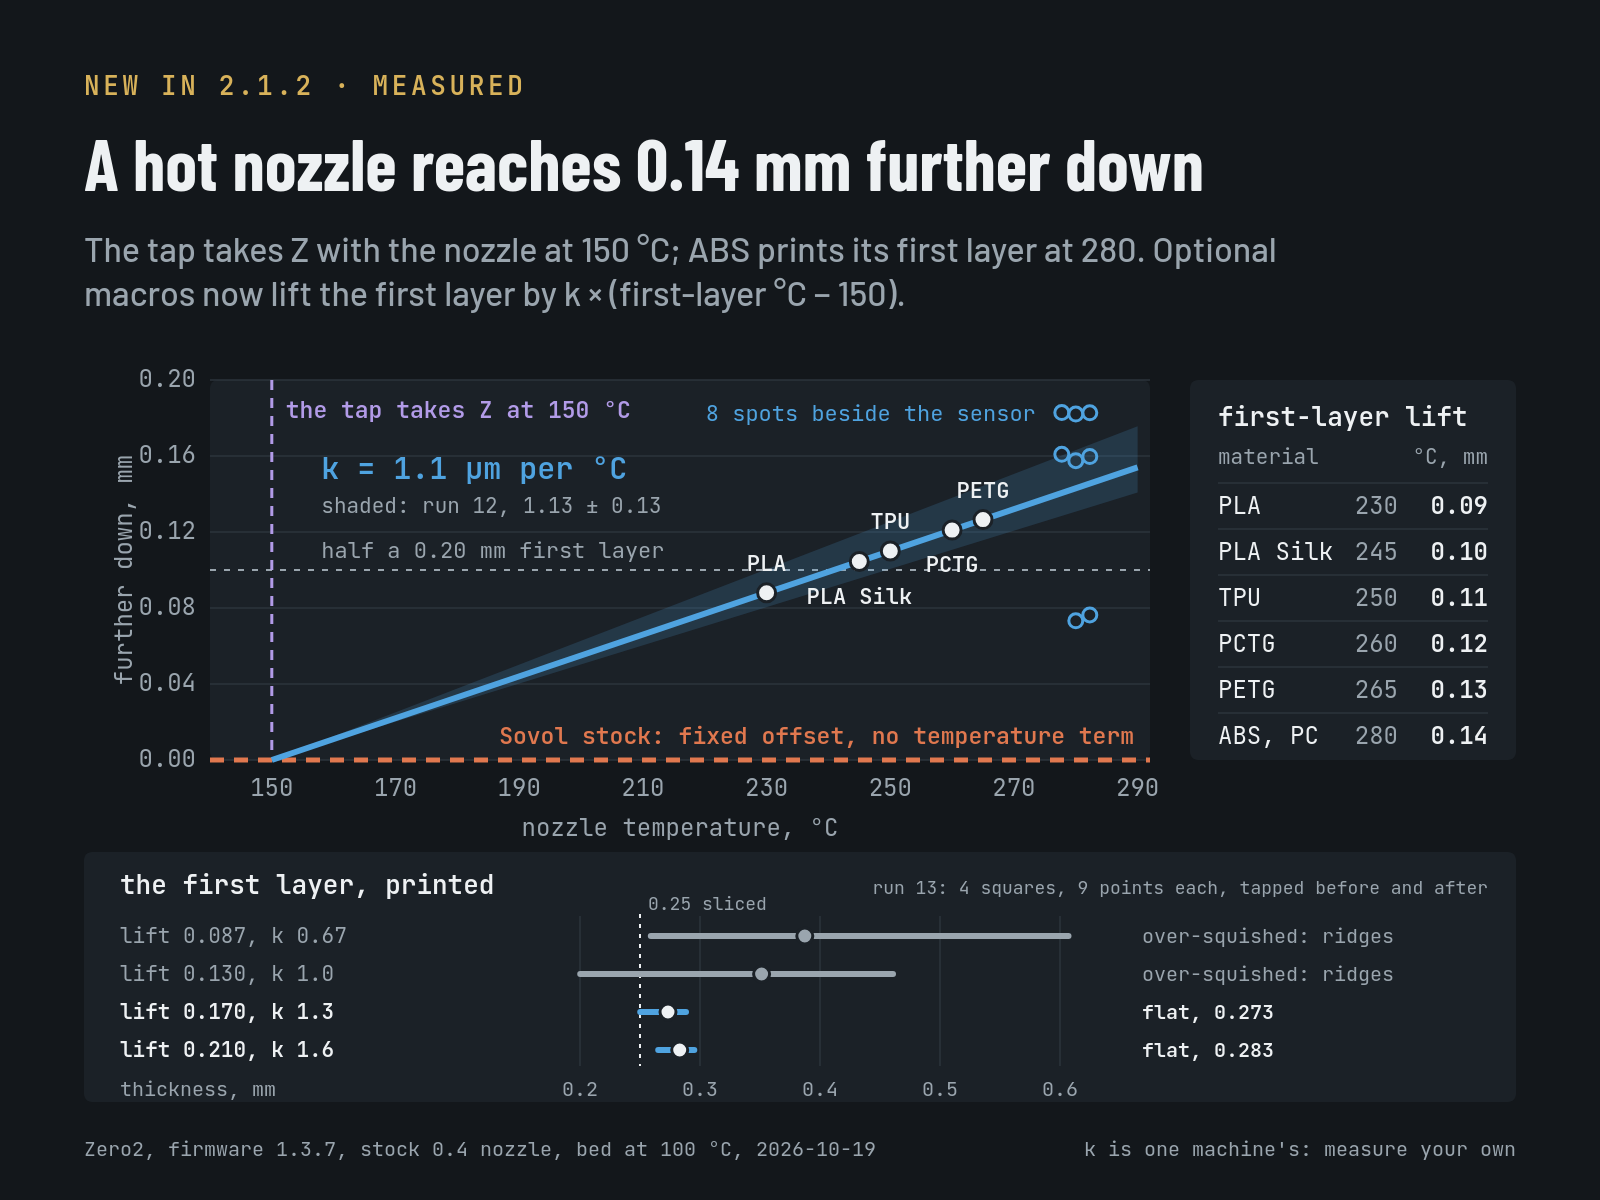
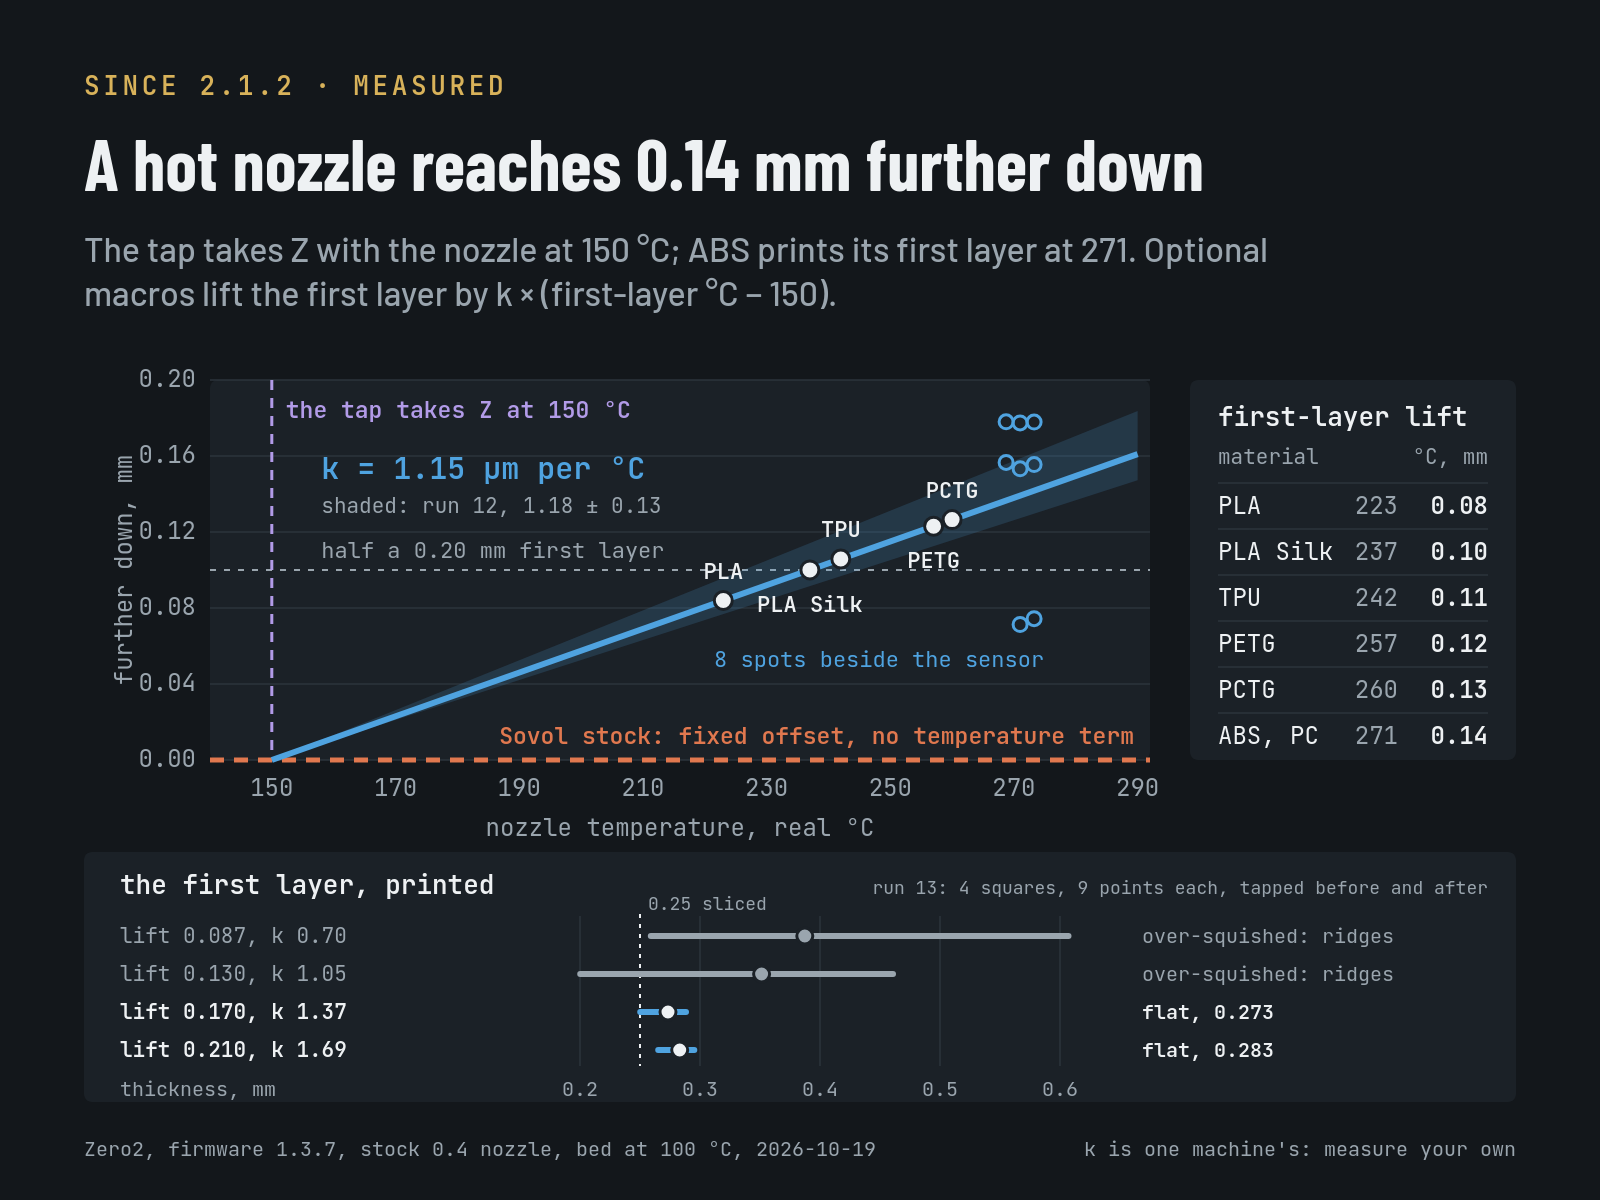
Nozzle growth figure: redrawn in real degrees
PR #12 rescaled k to 1.15 per real degree and rebased the first-layer
temperatures, but the README still showed 2.1.2's figure: k 1.1 and ABS at
280. The figure now converts run 12's logged temperatures through the
generator's stock curve and takes the first-layer temperatures from the
bundles: k 1.15, run 12 at 1.18 +/- 0.13, ABS at 271, and still 0.14 mm.
Run 13's squares read k 0.70, 1.05, 1.37 and 1.69.

The 2.1.2 changelog section now loads the image from the v2.1.2 tag, so it
still shows the figure its text describes.

diff --git a/CHANGELOG.md b/CHANGELOG.md
@@ -34,7 +34,8 @@
 - **Nozzle growth k 1.1 → 1.15 µm/°C.** It was measured per degree on Sovol's
   curve; the runs' 150 and 280 °C set points were 146.6 and 270.9 °C at the
   nozzle, so the same growth is 1.1 × 130 / 124.3 per real degree. The
-  first-layer offsets are unchanged to within 0.01 mm.
+  first-layer offsets are unchanged to within 0.01 mm. The README's nozzle
+  growth figure is redrawn in real degrees; 2.1.2's section keeps its own.
 - **Profiles from elsewhere now print 5–11 °C hotter** at the same number,
   Sovol's stock filaments included. An OTA or factory reset drops the pack's
   include and the nozzle runs cold by the same amount, not hot. See INSTALL.md,
@@ -275,7 +276,7 @@ Sliced in all three slicers; not yet printed.
 
 ### Nozzle growth compensation, on by default on 1.3.7, off on 1.4.x
 
-<p><img src="docs/images/nozzle-growth.png" alt="A hot nozzle reaches about 0.14 mm further down at 280 C than at the 150 C tap: eight tap pairs beside the sensor on one Zero, the published rate of 1.1 um per degree against Sovol stock, which has a fixed offset and no temperature term, the first-layer lift for each material, and four printed single-layer squares, where the lifts for 0.67 and 1.0 came out over-squished and the lift for 1.3 came out flat"></p>
+<p><img src="https://raw.githubusercontent.com/rpcyan586/svzero-profiles/v2.1.2/docs/images/nozzle-growth.png" alt="A hot nozzle reaches about 0.14 mm further down at 280 C than at the 150 C tap: eight tap pairs beside the sensor on one Zero, the published rate of 1.1 um per degree against Sovol stock, which has a fixed offset and no temperature term, the first-layer lift for each material, and four printed single-layer squares, where the lifts for 0.67 and 1.0 came out over-squished and the lift for 1.3 came out flat"></p>
 
 A hotter nozzle reaches further down, and every print's Z reference is taken
 at one nozzle temperature while the first layer prints at another. On the

diff --git a/README.md b/README.md
@@ -27,7 +27,7 @@ are starting points, not evidence that a nozzle fits or has been flow-calibrated
 
 <p><img src="docs/images/stock-vs-pack.png" alt="Sovol's one stock profile against the pack's tiers on the 0.4 nozzle: speeds as run with the clamped requests in parentheses, infill flow, peak acceleration, corner velocity, X/Y microsteps and current"></p>
 
-<p><img src="docs/images/nozzle-growth.png" alt="A hot nozzle reaches about 0.14 mm further down at 280 C than at the 150 C tap: eight tap pairs beside the sensor on one Zero, the published rate of 1.1 um per degree against Sovol stock, which has a fixed offset and no temperature term, the first-layer lift for each material, and four printed single-layer squares, where the lifts for 0.67 and 1.0 came out over-squished and the lift for 1.3 came out flat"></p>
+<p><img src="docs/images/nozzle-growth.png" alt="A hot nozzle reaches about 0.14 mm further down at ABS's 271 C first layer than at the 150 C tap, in real degrees: eight tap pairs beside the sensor on one Zero, the published rate of 1.15 um per degree against Sovol stock, which has a fixed offset and no temperature term, the first-layer lift for each material, and four printed single-layer squares, where the lifts for k 0.70 and 1.05 came out over-squished and the lift for 1.37 came out flat"></p>
 
 <p>
 <img src="docs/images/presets.png" width="49%" alt="Every print preset by nozzle and tier, 56 across 10 nozzles, with precision on 0.2 to 0.4">
